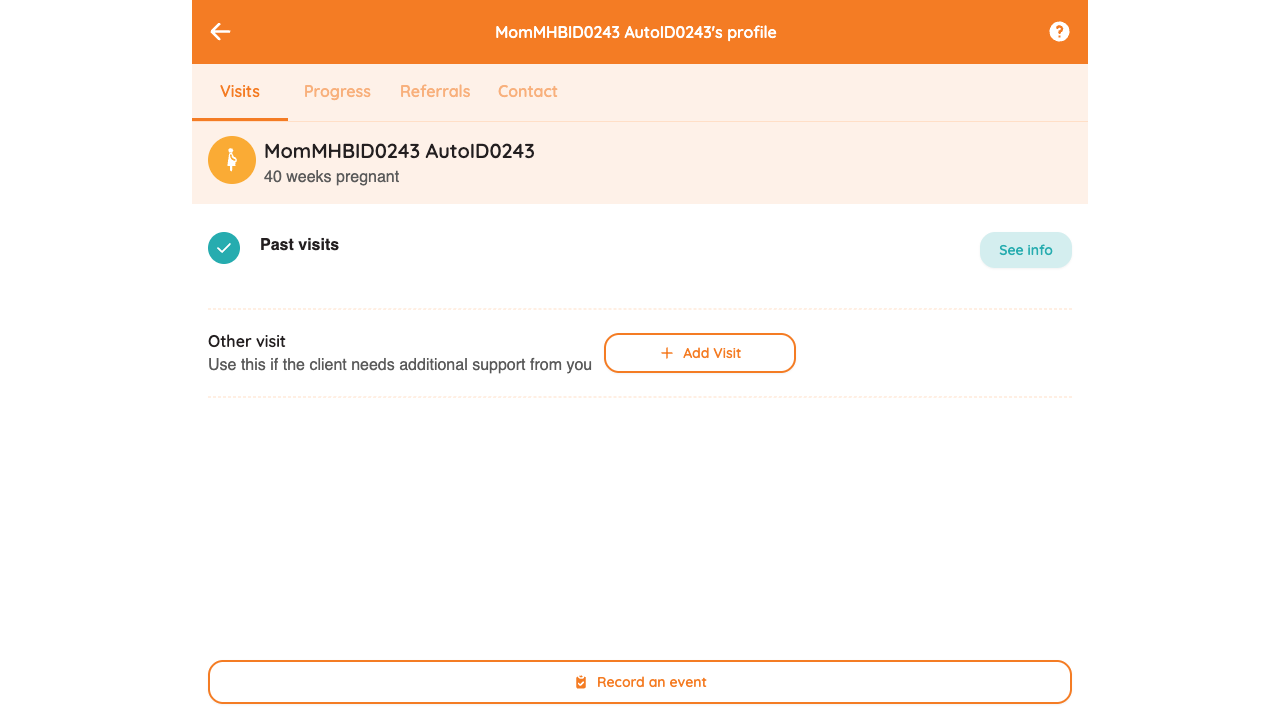
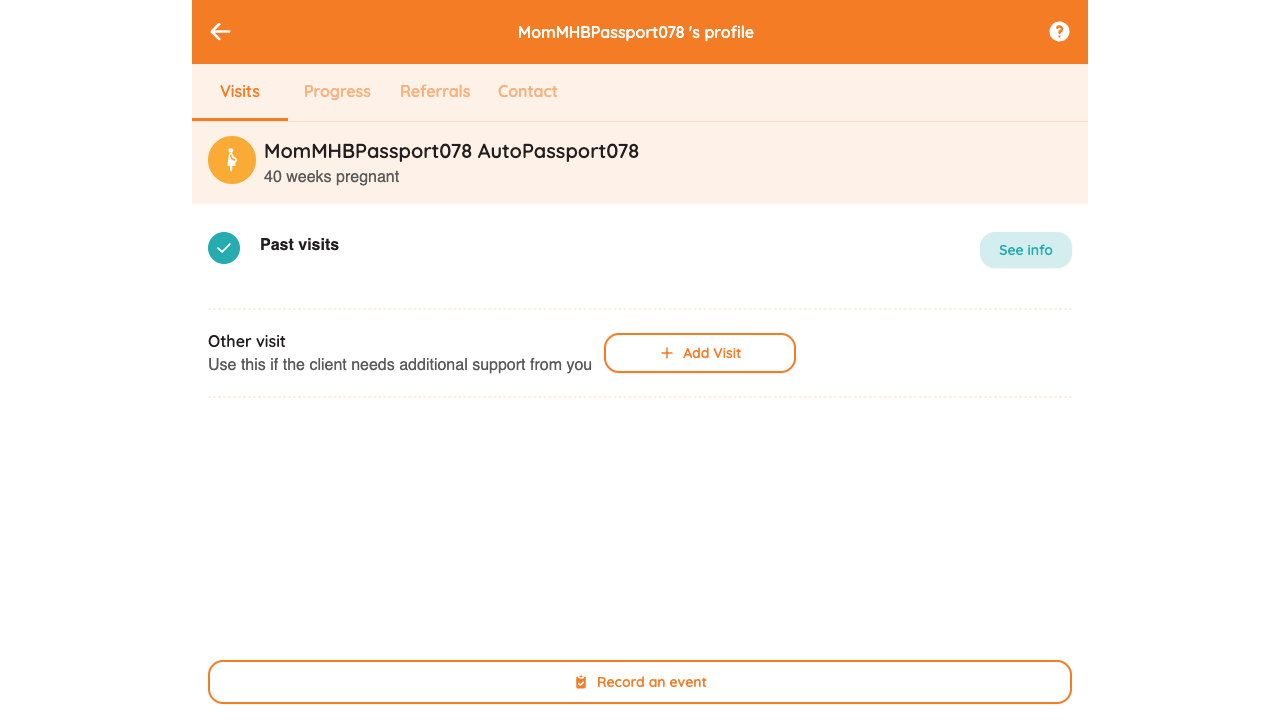
Add extra registration folders and staging sync polling to test suites
- GG qa/staging: three more Child+RTHB folders with recorded visits,
  mirroring the extra pregnant-mom loop
- GG staging: poll up to 3 min for a new CHW to appear in the Users
  table; fill search/ID fields once to avoid appended-value corruption
- OA signupaddpreschool5Child: flow refactor
- gitignore local JMeter load-test files

Changed region(s): [[0.2812, 0.1833, 0.5, 0.2444], [0.375, 0.0306, 0.625, 0.0611]]

diff --git a/GG/ggstaging.test.js b/GG/ggstaging.test.js
@@ -9,7 +9,7 @@ fs.mkdirSync(SCREENSHOTS_DIR, { recursive: true })
 // The numeric ID auto-increments on every run (persisted in .chw-counter.json)
 // so re-running never collides with a previously created user.
 const COUNTER_FILE = path.join(__dirname, ".chw-counter.json")
-const START_ID = 25 // next unused ID after ID0024
+const START_ID = 25 // next unused number after Passport024
 
 function nextId() {
   let current = START_ID
@@ -17,7 +17,7 @@ function nextId() {
     current = JSON.parse(fs.readFileSync(COUNTER_FILE, "utf8")).lastId + 1
   }
   fs.writeFileSync(COUNTER_FILE, JSON.stringify({ lastId: current }))
-  return `ID${String(current).padStart(4, "0")}`
+  return `Passport${String(current).padStart(3, "0")}`
 }
 
 const generatedId = nextId()
@@ -739,6 +739,10 @@ test("GG/ggstaging - offline: child with RTHB", async () => {
     const idNumberInput = 'input[name="idNumber"]'
     await page.waitForSelector(idNumberInput, { state: "visible", timeout: 15000 })
     await page.click(idNumberInput)
+    // Explicit clear before fill — this field doesn't reliably clear on a
+    // single .fill() on staging (same issue as the CHW search box), so a
+    // second .fill() on top of leftover content produced "Passport049Passport049".
+    await page.fill(idNumberInput, "")
     await page.fill(idNumberInput, offlineCHW.passportNumber)
     await page.waitForTimeout(1000)
 
@@ -748,20 +752,33 @@ test("GG/ggstaging - offline: child with RTHB", async () => {
     await page.click(saveButton)
     console.log("Saved new CHW:", offlineFullName)
 
-    // Staging's CHW table doesn't refresh itself right after Save (unlike QA) —
-    // the new row only shows up once the search box is used to (re)fetch/filter
-    // the list, so search for the ID explicitly instead of just waiting on the
-    // table to update on its own.
-    await page.waitForTimeout(2000)
+    // Staging has a multi-minute lag between Save and the new CHW actually
+    // showing up in the Users table or its search — confirmed by testing (a row
+    // created in one run only appeared several minutes later, in a later run).
+    // A single short wait isn't enough, so poll for up to 3 minutes. The search
+    // box is filled ONCE, not re-filled every iteration — this input doesn't
+    // clear itself on repeat .fill() calls, so re-filling it in the loop was
+    // corrupting it into "Passport049Passport049Passport049..." (each call's
+    // text appended instead of replacing), which of course never matched.
+    const addedUserButton = page.locator(`table button:text-is("${offlineFullName}")`).first()
     const chwSearchInput = page.getByPlaceholder(/search by id number or name/i)
     if ((await chwSearchInput.count()) > 0) {
       await chwSearchInput.fill(offlineId).catch(() => {})
-      console.log(`Searched CHW list for "${offlineId}"`)
-      await page.waitForTimeout(2000)
     }
-
-    const addedUserButton = page.locator(`table button:text-is("${offlineFullName}")`).first()
-    await addedUserButton.waitFor({ state: "visible", timeout: 30000 })
+    const pollDeadline = Date.now() + 180000
+    let addedUserFound = false
+    while (Date.now() < pollDeadline) {
+      await page.waitForTimeout(10000)
+      if (await addedUserButton.isVisible().catch(() => false)) {
+        addedUserFound = true
+        break
+      }
+      console.log(`Still waiting for CHW "${offlineFullName}" to appear in the Users table...`)
+    }
+    if (!addedUserFound) {
+      await addedUserButton.waitFor({ state: "visible", timeout: 5000 })
+    }
+    console.log(`CHW "${offlineFullName}" appeared in the Users table`)
     await addedUserButton.scrollIntoViewIfNeeded()
     await addedUserButton.click()
 
@@ -1313,6 +1330,10 @@ test("GG/ggstaging", async () => {
     const idNumberInput = 'input[name="idNumber"]'
     await page.waitForSelector(idNumberInput, { state: "visible", timeout: 15000 })
     await page.click(idNumberInput)
+    // Explicit clear before fill — this field doesn't reliably clear on a
+    // single .fill() on staging (same issue as the CHW search box), so a
+    // second .fill() on top of leftover content produced a doubled value.
+    await page.fill(idNumberInput, "")
     await page.fill(idNumberInput, CHW.passportNumber)
     console.log(`Entered passport number: ${CHW.passportNumber}`)
     await page.waitForTimeout(1000)
@@ -1748,6 +1769,30 @@ await invitePage.waitForTimeout(5000);
         photoQuestionChoice: "No",
       })
       await reportResult(extraMomResult, `Pregnant mom (extra ${i})`, `pregnant_mom_extra${i}_registered.png`)
+    }
+
+    // ----- Folders 9-11: three more separate Child, with RTHB folders (each
+    // with a visit recorded), mirroring the extra Pregnant mom loop above. -----
+    for (let i = 1; i <= 3; i++) {
+      await openNewFolder("Child")
+      const extraChildResult = await runRegistrationWizard(invitePage, {
+        label: `Child registration (extra ${i}, RTHB)`,
+        generatedId,
+        CHW,
+        namePrefix: `ChildExtra${i}RTHB`,
+        surnamePrefix: "Auto",
+        extraStepHandler: childExtraHandler,
+        photoQuestionChoice: "Yes",
+      })
+      await reportResult(extraChildResult, `Child (extra ${i}, RTHB)`, `child_extra${i}_rthb_registered.png`)
+
+      if (extraChildResult.success) {
+        await recordVisitForFolder(invitePage, {
+          personFirstName: extraChildResult.firstName,
+          resultLabel: `Visit (Child extra ${i}, RTHB)`,
+          screenshotPrefix: `child_extra${i}_rthb_visit`,
+        })
+      }
     }
   } catch (error) {
     console.error("An error occurred:", error)

diff --git a/OA/signupaddpreschool5Child.test.js b/OA/signupaddpreschool5Child.test.js
@@ -68,7 +68,7 @@ test("OA/signupaddpreschool5Child", async () => {
     console.log("Filling username/password/");
     await page.click('button:has-text("Create a username")');
     await page.fill('input[name="password"]', "Tester_12");
-    await page.fill('input[placeholder="e.g. Nothando_123"]', "BulkSMSOA13");
+    await page.fill('input[placeholder="e.g. Nothando_123"]', "BulkSMSOA13" + Date.now());
     await page.waitForTimeout(1000);
 
     await page.waitForTimeout(2000)
@@ -465,6 +465,45 @@ await page.locator('textarea[name="streetAddress"]').fill(testdata.streetAddress
 
     await page.getByTestId("close-button").click();
 
+    // Classroom → Attendance → take today's register
+    await page.getByRole("heading", { name: "Attendance" }).click();
+    await page.waitForTimeout(2000);
+
+    await page.getByText("No, skip", { exact: true }).click({ timeout: 5000 }).catch(() => {});
+    await page.waitForTimeout(1000);
+    await page.getByText("Close", { exact: true }).click({ timeout: 5000 }).catch(() => {});
+    await page.waitForTimeout(1000);
+
+    await page.getByRole("button", { name: "Edit" }).first().click();
+    await page.waitForTimeout(1500);
+
+    await page.locator("#gtm-add-attendance").click();
+    await page.waitForTimeout(2000);
+
+    // Classroom → Activities → choose a theme for the day
+    await page.getByRole("heading", { name: "Activities" }).click();
+    await page.waitForTimeout(2000);
+
+    await page.getByText("No, skip", { exact: true }).click({ timeout: 5000 }).catch(() => {});
+    await page.waitForTimeout(1000);
+    await page.getByText("Close", { exact: true }).click({ timeout: 5000 }).catch(() => {});
+    await page.waitForTimeout(1000);
+
+    await page.getByRole("heading", { name: "Class 1" }).click();
+
+    await page.getByText("Choose a theme", { exact: true }).click();
+    await page.waitForTimeout(5000);
+
+    const themeDay = new Date().toISOString().split('T')[0];
+    await page.getByLabel("Start day").click();
+    await page.getByLabel("Start day").fill(themeDay);
+
+    await page.getByRole("listbox").click();
+    await page.getByText("English", { exact: true }).click();
+
+    await page.getByRole("button", { name: "Save" }).click();
+    await page.waitForTimeout(2000);
+
     // Click back arrow
 await page.locator('svg.primaryAccent2 path[d*="M9.707 16.707"]').first().click();
 
@@ -533,32 +572,6 @@ await page.locator('svg.primaryAccent2.cursor-pointer').click();
 await page.locator('svg path[d*="M4.293 4.293"]').click();
 
 await page.locator('svg.primaryAccent2').click();
-
-
-
-//Activities:
-await page.getByRole("heading", { name: "Activities" }).click();
-await page.waitForTimeout(2000);
-
-//Click class1
-await page.getByRole("heading", { name: "Class 1" }).click();
-
-//
-await page.getByText("Choose a theme", { exact: true }).click();
-await page.waitForTimeout(5000);
-
-
-// Click Start day input and fill with today's date
-const today = new Date().toISOString().split('T')[0]; // Format: YYYY-MM-DD
-await page.getByLabel("Start day").click();
-await page.getByLabel("Start day").fill(today);
-
-// Click language dropdown and select English
-await page.getByRole("listbox").click();
-await page.getByText("English", { exact: true }).click();
-
-// Click Save button
-await page.getByRole("button", { name: "Save" }).click();
 
     console.log("Automation completed successfully!");
     await page.waitForTimeout(5000);

diff --git a/GG/ggqa.test.js b/GG/ggqa.test.js
@@ -1798,6 +1798,30 @@ await invitePage.waitForTimeout(5000);
       })
       await reportResult(extraMomResult, `Pregnant mom (extra ${i})`, `pregnant_mom_extra${i}_registered.png`)
     }
+
+    // ----- Folders 9-11: three more separate Child, with RTHB folders (each
+    // with a visit recorded), mirroring the extra Pregnant mom loop above. -----
+    for (let i = 1; i <= 3; i++) {
+      await openNewFolder("Child")
+      const extraChildResult = await runRegistrationWizard(invitePage, {
+        label: `Child registration (extra ${i}, RTHB)`,
+        generatedId,
+        CHW,
+        namePrefix: `ChildExtra${i}RTHB`,
+        surnamePrefix: "Auto",
+        extraStepHandler: childExtraHandler,
+        photoQuestionChoice: "Yes",
+      })
+      await reportResult(extraChildResult, `Child (extra ${i}, RTHB)`, `child_extra${i}_rthb_registered.png`)
+
+      if (extraChildResult.success) {
+        await recordVisitForFolder(invitePage, {
+          personFirstName: extraChildResult.firstName,
+          resultLabel: `Visit (Child extra ${i}, RTHB)`,
+          screenshotPrefix: `child_extra${i}_rthb_visit`,
+        })
+      }
+    }
   } catch (error) {
     console.error("An error occurred:", error)
     await page.screenshot({ path: path.join(SCREENSHOTS_DIR, "error_screenshot.png"), fullPage: true })
